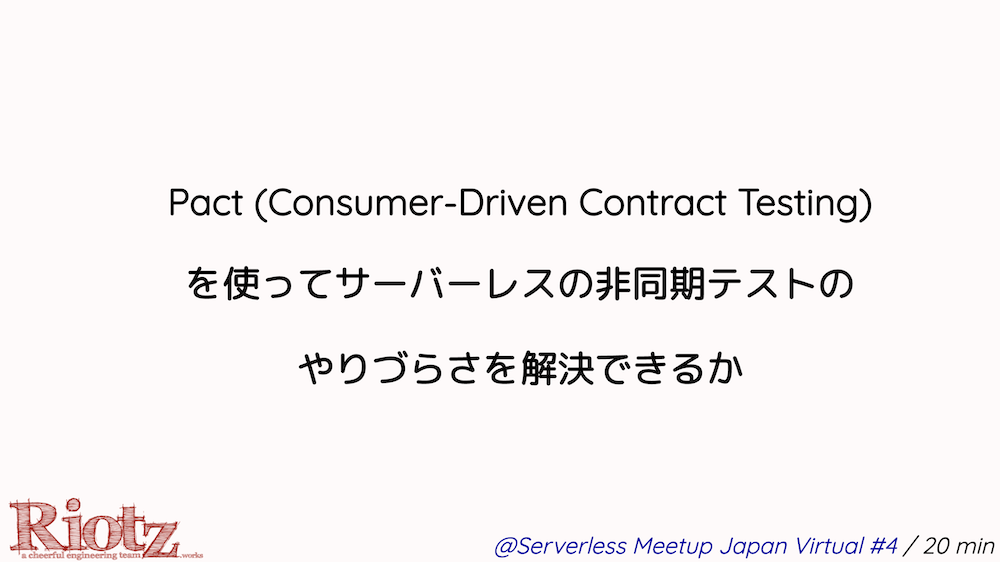
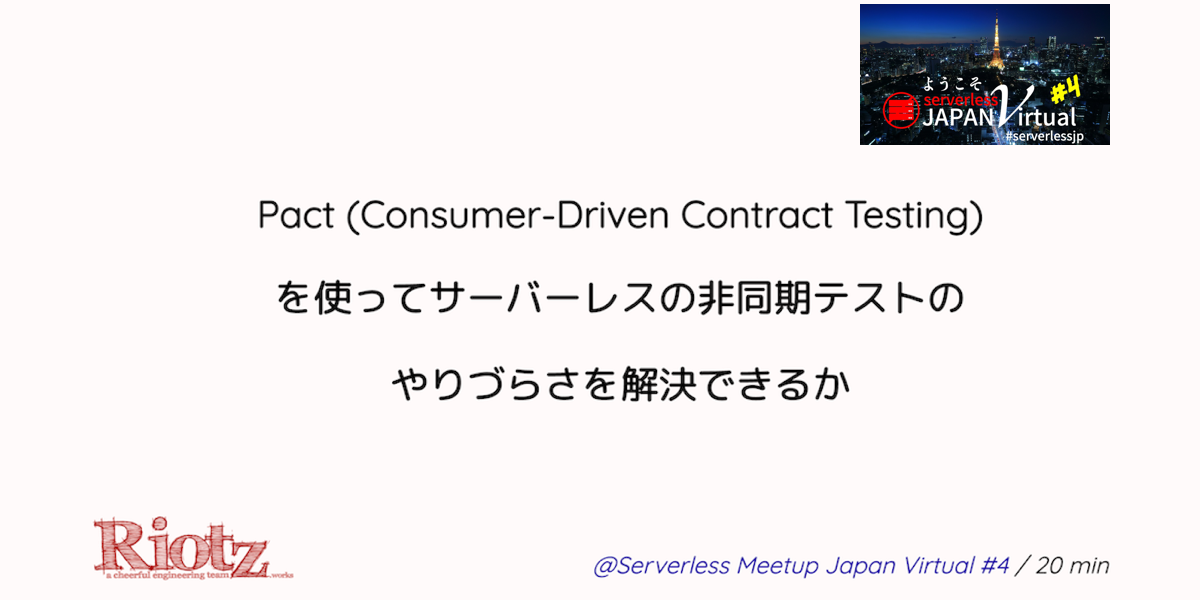
Improve slides for Serverless Meetup Japan Virtual 4

diff --git a/contents/2020-serverless-meetup-japan-virtual-4/style.css b/contents/2020-serverless-meetup-japan-virtual-4/style.css
@@ -93,16 +93,15 @@ img {
 }
 
 .img-15 {
-    padding-top: 20px;
-    padding-right: 30px;
-    margin: 0 auto;
+    padding-right: 20px;
+    margin: 225px auto;
     width: 320px;
 }
 
 .img-16 {
     padding-top: 20px;
     margin: 0 auto;
-    width: 320px;
+    width: 280px;
 }
 
 .centered-small {

diff --git a/assets/style.css b/assets/style.css
@@ -55,6 +55,15 @@ a:hover, a:active {
     position: absolute;
 }
 
+.event-logo-wide img {
+    width: 280px;
+    height: 160px;
+    top: 4px;
+    right: 4px;
+    position: absolute;
+}
+
+
 .english p {
     color: #666;
     font-family: 'Quicksand';

diff --git a/contents/2020-serverless-meetup-japan-virtual-4/slide.md b/contents/2020-serverless-meetup-japan-virtual-4/slide.md
@@ -5,7 +5,7 @@ class: cover, center, middle
 ## Pact (Consumer-Driven Contract Testing) 
 ## を使ってサーバーレスの非同期テストの
 ## やりづらさを解決できるか
-
+.event-logo-wide[[![](../assets/logo/serverlesst-meetup-japan-virtual-4.png)](https://serverless.connpass.com/event/184557/)]
 .footer[[@Serverless Meetup Japan Virtual #4](https://serverless.connpass.com/event/184557/) / 20 min]
 
 ---
@@ -35,6 +35,16 @@ class: no-logo
 ]
 .footnote[※ 発言や投稿は私的なものであり、所属する企業や組織とは関係ありません。また Riotz.works は 開発チームの名称です。  ]
 
+---
+### Pact を使ってみようとした経緯
+- ポッドキャスト「Serverless NOW」を一緒にやっている、  
+  Serverless Operations の堀家さんと、サーバーレスの非同期テストについて話していた
+
+- 非同期処理のテストの難しさについて共感
+
+- 様々なテストの手法がある中、契約ベースの Pact が話題に
+
+- Pact を試してみることに
 
 ---
 class: center, middle, no-logo
@@ -624,7 +634,13 @@ class: center, middle, no-logo
   - 実装は最小限に抑え、テストを行うスコープとポリシーを明確に定めておく
 
 ---
-class: center, middle, no-logo
+class: center, no-logo
+### Special Thanks
+.img-15[
+![](../contents/2020-serverless-meetup-japan-virtual-4/images/15.png)
+]
+---
+class: center, no-logo
 ### ポッドキャストやってます🎙
 .img-16[
 ![](../contents/2020-serverless-meetup-japan-virtual-4/images/16.png)
